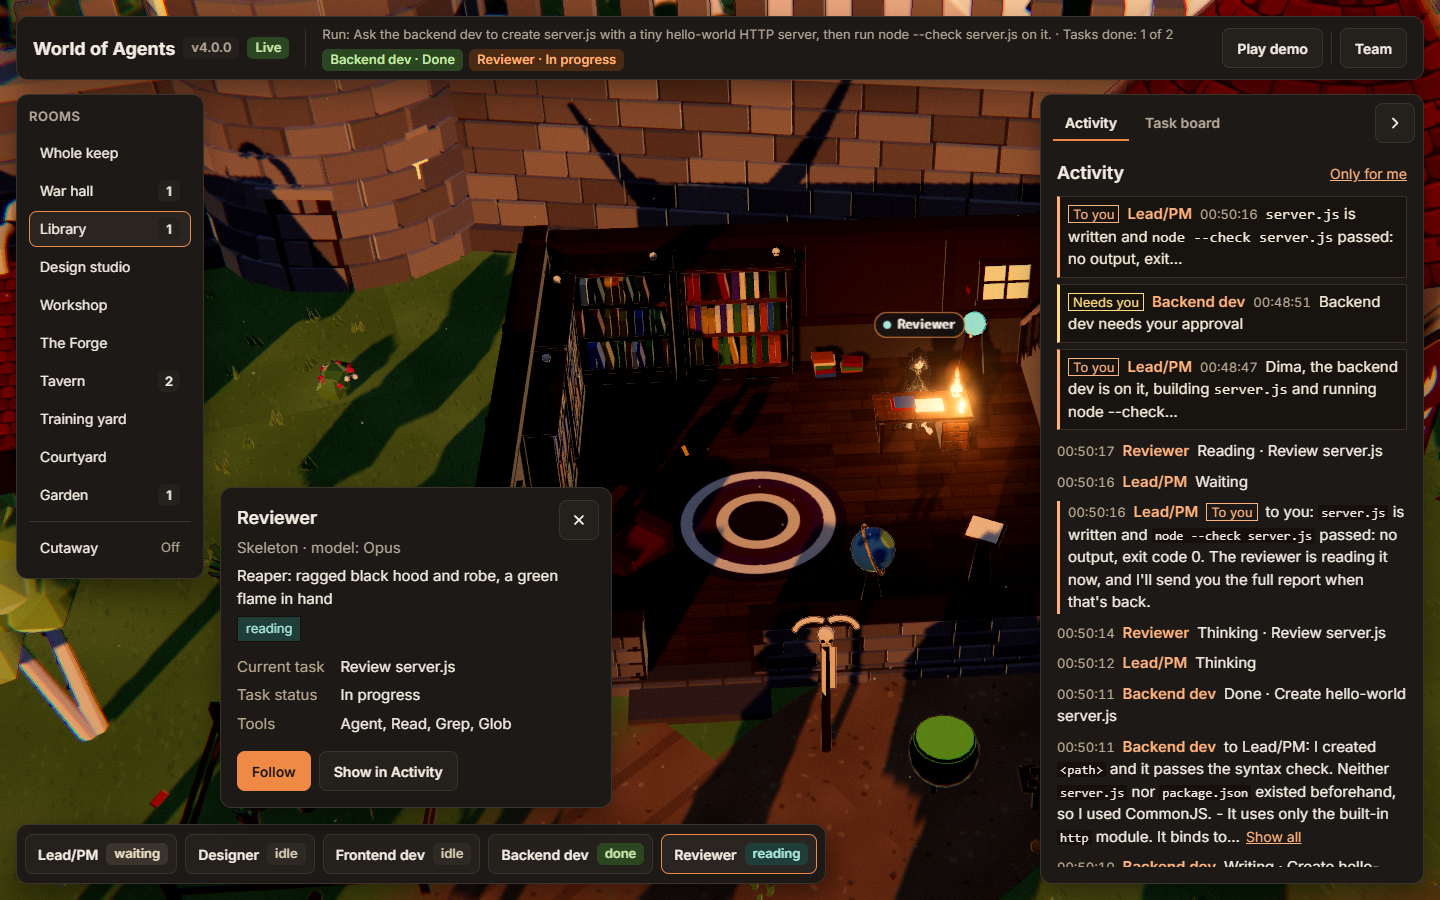
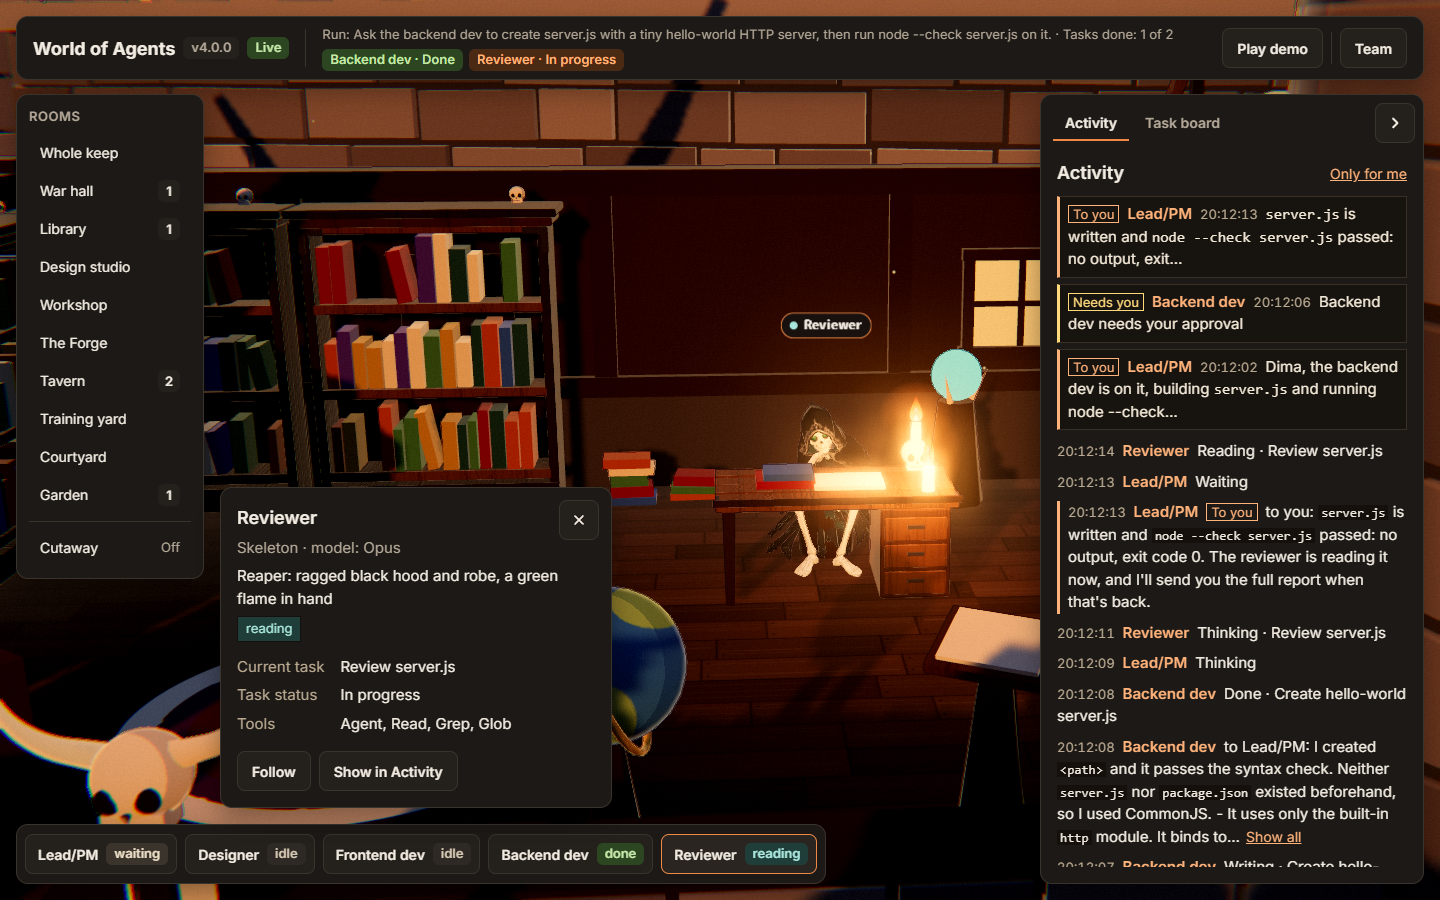
4.0.1, item 3: README picture 2 again, the Reviewer large in the frame. Retaken as D22 made it: run 3's redacted hooks replayed into the stand-in hall, 1440 x 900 in Edge on the GPU, to the Reviewer reading server.js at its Library desk; the Library's room view, the Reviewer's card and Follow, eight

diff --git a/docs/v4-build-plan.md b/docs/v4-build-plan.md
@@ -860,3 +860,13 @@ crease-lines render for Dima; the scrying orb's flat look; frame-time tuning fro
   primary colours, `aria-pressed` as before. A React test for both states (two planted bugs caught: always primary,
   and the looks swapped). Measured in Edge: off the raised ground and the text colour, on the accent and its text.
   Shots: `D:\Dev\scratch\t-shots-401\follow-*.png`. Why: the request's own words.
+- **4.0.1, item 3 (Dima's brief, 26 Nov): README picture 2 again.** The D22 picture showed the whole Library from its
+  room view, the Reviewer small behind its tag. Retaken as D22 made it: run 3's redacted hooks replayed into the
+  stand-in hall (tools/world-check/hall-standin.ts), 1440 x 900 in Edge on the GPU, to the moment the Reviewer reads
+  server.js at its Library desk. Choice: the Library's room view (the side the Library is seen from), the Reviewer's
+  card and Follow to put it in the middle, eight notches of the wheel in towards it (a hand move, so Follow ends and the
+  card shows a plain "Follow", item 2), and the camera lowered from there by 80 px of drag: the reaper large at its
+  desk by the candle, its skull, hood and robe against the bookshelves. Tried and dropped: steeper views (the dark hood
+  alone on a dark floor) and the other sides (walls between). Looked at before adding: the feed says only what the
+  redacted run said ("Dima", as the run did, and `<path>` where paths were redacted), no personal path. The README's
+  alt text says what it shows now. Shots: `D:\Dev\scratch\t-shots-401\readme-2-*`. Why: the request's own words.

diff --git a/README.md b/README.md
@@ -10,7 +10,7 @@ You run Claude Code in your project. A team of five does the work: Lead/PM, Desi
 
 A minute later in the same run:
 
-![The Library from its room view, where the Reviewer reads the Backend dev's server.js at its desk. The Reviewer's card is open: Skeleton, model Opus, reading, its task and its read-only tools, with Follow and Show in Activity.](docs/media/live-review.png)
+![Close in on the Library, where the Reviewer, a hooded skeleton, reads the Backend dev's server.js at its desk by a candle, the bookshelves behind it. The Reviewer's card is open: Skeleton, model Opus, reading, its task and its read-only tools, with Follow and Show in Activity.](docs/media/live-review.png)
 
 ## New in v4.0
 

diff --git a/CLAUDE.md b/CLAUDE.md
@@ -1353,4 +1353,4 @@ mode, and the minimum Claude Code version is 2.1.312, the oldest measured with t
     `#v4.0.0` line in a throwaway config reports 4.0.0 and its cache is `plugin/` as tagged, and the Pages demo shows
     v4.0.0. His projects woa-test and woa-v3-test moved to it (26 Nov). 4.0.1 (his brief, 26 Nov, in the plan's log):
     item 1 done, the phone's Demo top bar in one row of controls under the title, 7.34rem; item 2 done, Follow an
-    ordinary button while off.
+    ordinary button while off; item 3 done, README picture 2 close in on the Reviewer at its Library desk.
